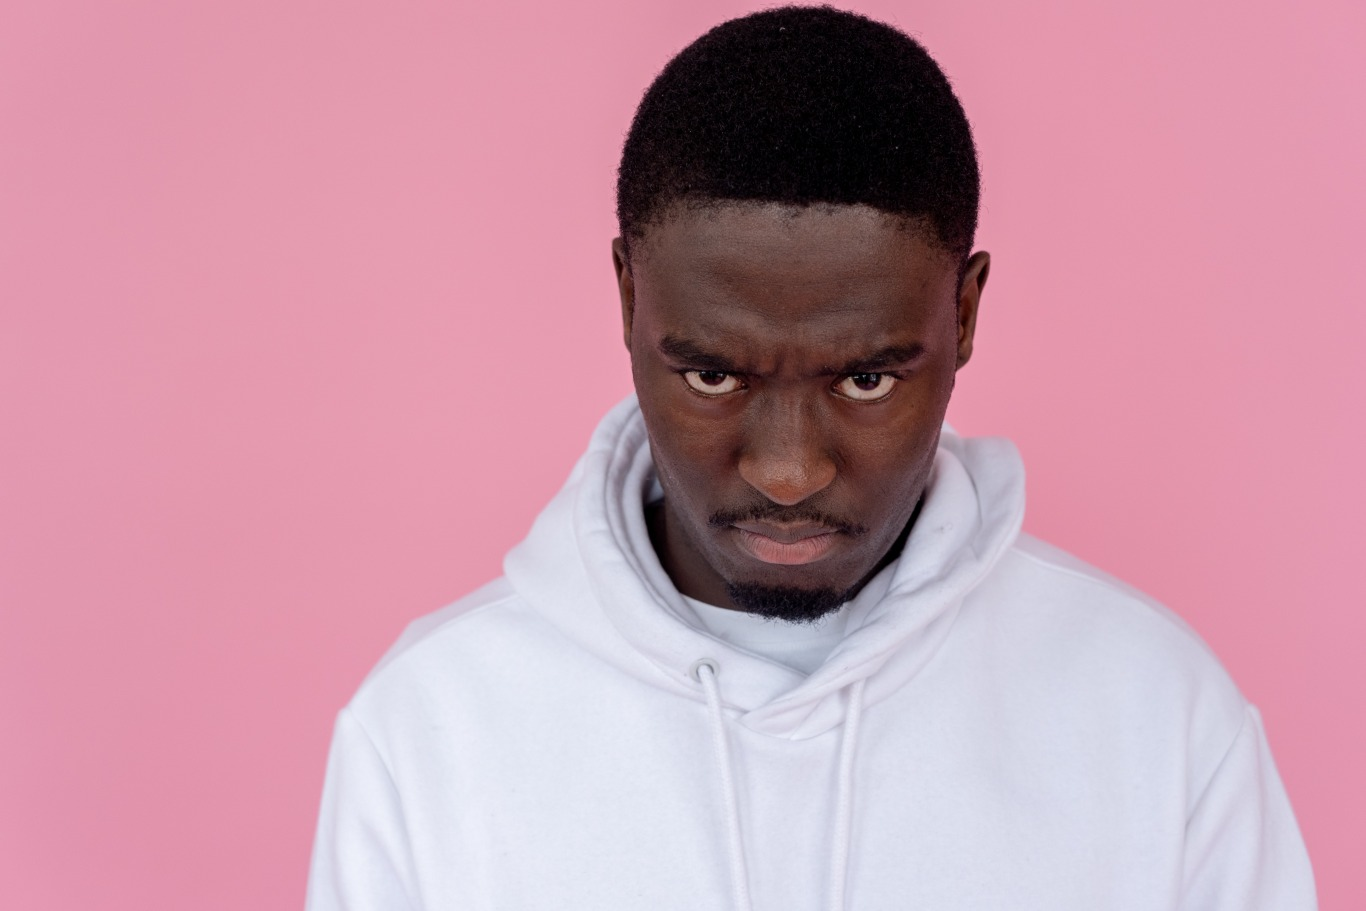
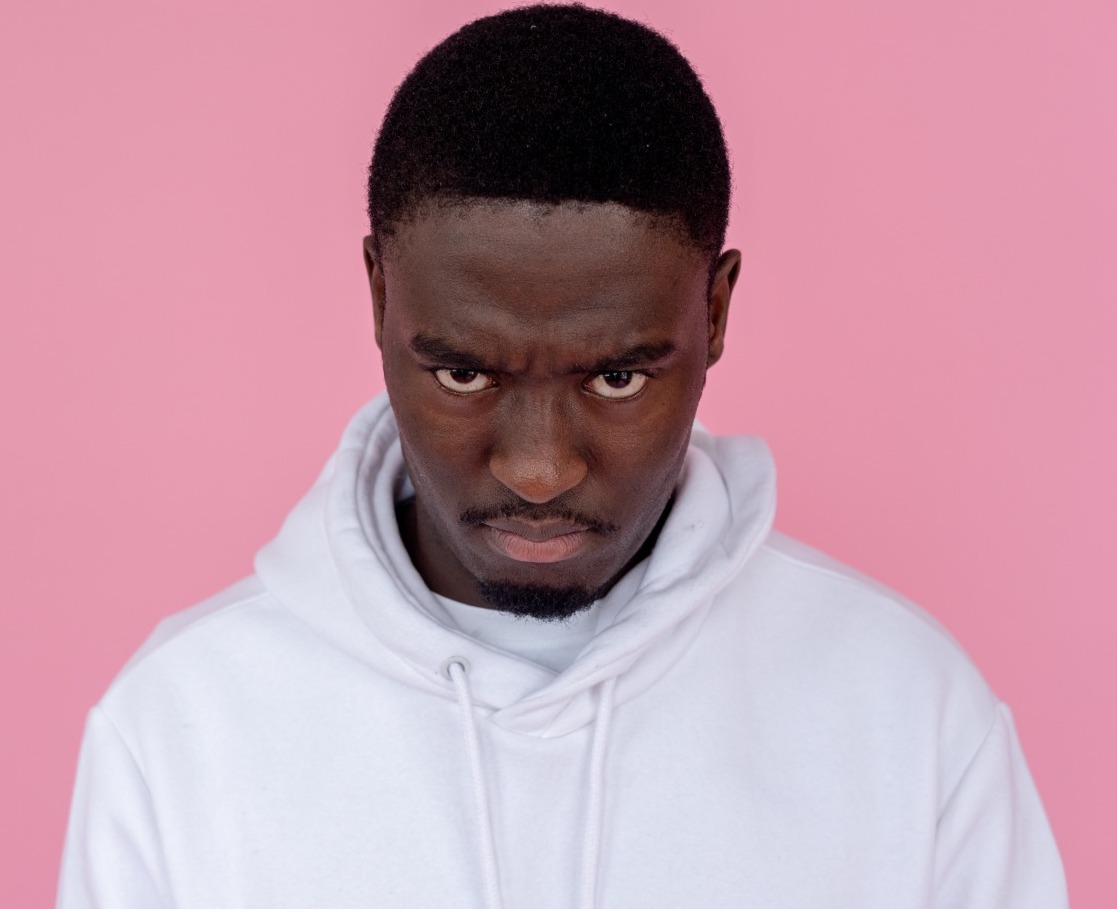
[テストデータ追加]

Changed region(s): [[0.0304, 0.0, 0.974, 1.0], [0.8218, 0.8933, 0.8523, 0.9241]]

diff --git a/app/assets/stylesheets/homes.scss b/app/assets/stylesheets/homes.scss
@@ -1,11 +1,6 @@
 // Place all the styles related to the homes controller here.
 // They will automatically be included in application.css.
 // You can use Sass (SCSS) here: https://sass-lang.com/
-.scroll{
-  height: 300px;
-  overflow: auto;
-}
-
 .first-place, .second-place, .third-place {
     font-size:18px;
     margin: 0;
@@ -33,40 +28,13 @@
     background-position: center;
 }
 .main-image {
-  width: 100%; /* 横幅いっぱい */
-  height: 700px; /* 高さ300px */
+  width: 100%;
+  height: 700px;
   background-image: asset-url('angry.jpg');
-  background-size: contain;
-  background-position: -40px;
+  background-size: cover;
+  background-position: center;
 }
 
-// #title {
-//   display: flex;
-//   overflow: hidden;
-//   color: gray;
-//   font-size: 32px;
-//   font-weight: bold;
-//   span {
-//     display: inline-block;
-//     transform: trans0lateY(105%);
-//     @for $i from 1 to 18 {
-//       &:nth-child(#{$i}) {
-//         animation: fadeInText 1s ease 0.1 * $i + s
-// forwards;
-//       }
-//     }
-//   }
-// }
-// @keyframes fadeInText {
-//   100% {
-//     transform: transloateY(0);
-//   }
-// }
-
-/**
- * Intensifies
- * - Slowly increases in shaking and madness
- */
 @keyframes intensifies {
   0% {
     transform: translate(0px, 0px) ;

diff --git a/db/seeds.rb b/db/seeds.rb
@@ -23,3 +23,15 @@ Post.create!(
     {text_name: 'ゼロからわかる Ruby 超入門', image: ActiveStorage::Blob.create_and_upload!(io: File.open("#{Rails.root}/db/fixtures/sample-post3.jpg"), filename:"sample-post3.jpg"), introduction: '本書は、プログラミングが初めての方へ向けた、プログラミング言語Rubyの入門書です。Rubyはやりたいことを簡潔に書ける言語です。学習の際に余計なことを考える必要がなく、学ぶ内容に集中できます。これは初めて学ぶ言語として最高の特徴と言えます。実際の使用例も多く、クックパッドなどのたくさんのRubyで書かれたWebサービスたちが世界で多数稼働しています。この本の対象読者として、プログラミングをこれから始めたい方、他の言語を使ったことがあるがRubyは初めての方、Railsを学んだのでその基礎であるRubyを学びたい方、に当てはまる方は最適です。',review: '他言語を書いてきた私がRubyに入門する際、手に取りましたコード部分は全部打ち込んで、実行しわかったつもりになっても、練習問題を解くことで、ちゃんと理解できてないとこが炙り出されます。練習問題の解答集が別冊になってるのも便利でした。丸っこいキャラクターの挿絵イラストも可愛くて癒されます。',price: '2728', user_id: users[2].id }
   ]
 )
+
+Post.comments.create!(
+  [
+    {user_id: '1', post_id: '2', comment_introduction: 'ゼロからわかる Ruby 超入門を読んだこともあるがそれと少し、上級者向けかも。けど、二冊目に読む分としてはちょうどいい難易度に思えました。',total_score: '4',read_score: '3',price_score: '4',usability_score: '4'},
+    {user_id: '1', post_id: '3', comment_introduction: '分かりやすいようなイラストでの説明が多用されていたりと、初心者向けの一冊と言える。',total_score: '4',read_score: '4',price_score: '4',usability_score: '4'},
+    {user_id: '2', post_id: '1', comment_introduction: '全くの初心者から手にしたが、難しすぎて断念しかけた。用語の解説に使われている言葉がわからないシーンが多々あった',total_score: '2.5',read_score: '2',price_score: '2',usability_score: '3'},
+    {user_id: '2', post_id: '3', comment_introduction: '初心者でもわかるよう、噛み砕いた説明や図での説明が多くされています。初心者の初めの1冊目出来ます。',total_score: '4',read_score: '4',price_score: '4',usability_score: '5'},
+    {user_id: '3', post_id: '1', comment_introduction: '本書は冒頭に初心者の気持ちを裏切らない内容になっていますと書かれているが、その通りだと思う。他言語を習得済の私にとってはすごく学びやすく、楽しめる一冊であった。ただ、全くの諸学者には難しいかも。',total_score: '3',read_score: '2.5',price_score: '3',usability_score: '4'},
+    {user_id: '3', post_id: '2', comment_introduction: '現役のプロが執筆している入門書,超初心者には向かないがプログラムにかじったことあり、Rubyを学びたいならすごくおすすめです。',total_score: '5',read_score: '4',price_score: '5',usability_score: '5'}
+
+  ]
+)

diff --git a/app/controllers/public/posts_controller.rb b/app/controllers/public/posts_controller.rb
@@ -1,60 +1,59 @@
 class Public::PostsController < ApplicationController
-  before_action :authenticate_user!
-  before_action :ensure_guest_user, only: [:show,:edit]
-
-  def new
-    @post = Post.new
-  end
-
-  def index
-    @posts = Post.all
-  end
-
-  def create
-    @post = Post.new(post_params)
-    @post.user_id = current_user.id
-    if@post.save
-      flash[:notice] = '新規投稿に成功しました。'
+    before_action :authenticate_user!
+    before_action :ensure_guest_user_post, only: [:show,:edit]
+  
+    def new
+      @post = Post.new
+    end
+  
+    def index
+      @posts = Post.all
+    end
+  
+    def create
+      @post = Post.new(post_params)
+      @post.user_id = current_user.id
+      if@post.save
+        flash[:notice] = '新規投稿に成功しました。'
+        redirect_to posts_path
+      else
+        render :new
+      end
+    end
+  
+    def edit
+      @post_edit = Post.find(params[:id])
+    end
+  
+    def update
+      @post_edit = Post.find(params[:id])
+      if@post_edit.update(post_params)
+        flash[:notice] = '投稿を編集しました。'
+        redirect_to post_path(@post_edit)
+      else
+        render :edit
+      end
+    end
+  
+    def show
+      @post = Post.find(params[:id])
+      @post_comment = Comment.new
+    end
+  
+    def destroy
+      post = Post.find(params[:id])
+      post.destroy
+      flash[:notice] = 'Textを削除しました。'
       redirect_to posts_path
-    else
-      render :new
     end
-  end
-
-  def edit
-    @post_edit = Post.find(params[:id])
-  end
-
-  def update
-    @post_edit = Post.find(params[:id])
-    if@post_edit.update(post_params)
-      flash[:notice] = '投稿を編集しました。'
-      redirect_to post_path(@post_edit)
-    else
-      render :edit
+  
+  private
+  
+    def ensure_guest_user_post
+      if current_user.email == "guest@example.com"
+        redirect_to root_path , notice: "ゲストユーザーはこの画面へ遷移できません。"
+      end
     end
-  end
-
-  def show
-    @post = Post.find(params[:id])
-    @post_comment = Comment.new
-  end
-
-  def destroy
-    post = Post.find(params[:id])
-    post.destroy
-    flash[:notice] = 'Textを削除しました。'
-    redirect_to posts_path
-  end
-
-private
-
-  def ensure_guest_user
-    @user = User.find(params[:id])
-    if @user.email == "guest@example.com"
-      redirect_to root_path , notice: "ゲストユーザーはプロフィール編集画面へ遷移できません。"
-    end
-  end
 
   def post_params
     params.require(:post).permit(:image,:text_name, :introduction, :review, :price )

diff --git a/app/controllers/admin/posts_controller.rb b/app/controllers/admin/posts_controller.rb
@@ -2,8 +2,13 @@ class Admin::PostsController < ApplicationController
   before_action :authenticate_admin!
 
   def index
-    @posts = Post.page(params[:page])
+    @user_post = User.find(params[:id])
+    @posts = @user_post.posts.all
+    @user_comment = User.find(params[:id])
+    @comments = @user_comment.comments.all
   end
+
+  
   def show
     @post = Post.find(params[:id])
   end

diff --git a/app/controllers/admin/users_controller.rb b/app/controllers/admin/users_controller.rb
@@ -21,9 +21,9 @@ class Admin::UsersController < ApplicationController
 
   def post_index
     @user_post = User.find(params[:id])
-    @posts = @user_post.posts.page(params[:page])
+    @posts = @user_post.posts.all
     @user_comment = User.find(params[:id])
-    @comments = @user_comment.comments.page(params[:page])
+    @comments = @user_comment.comments.all
   end
 
   private

diff --git a/app/controllers/public/comments_controller.rb b/app/controllers/public/comments_controller.rb
@@ -1,5 +1,4 @@
 class Public::CommentsController < ApplicationController
-  before_action :authenticate_user!, except: [:new]
 
   def create
       post_comment = Post.find(params[:post_id])

diff --git a/config/initializers/kaminari_config.rb b/config/initializers/kaminari_config.rb
@@ -11,4 +11,5 @@ Kaminari.configure do |config|
   # config.param_name = :page
   # config.max_pages = nil
   # config.params_on_first_page = false
+  config.default_per_page = 8
 end
